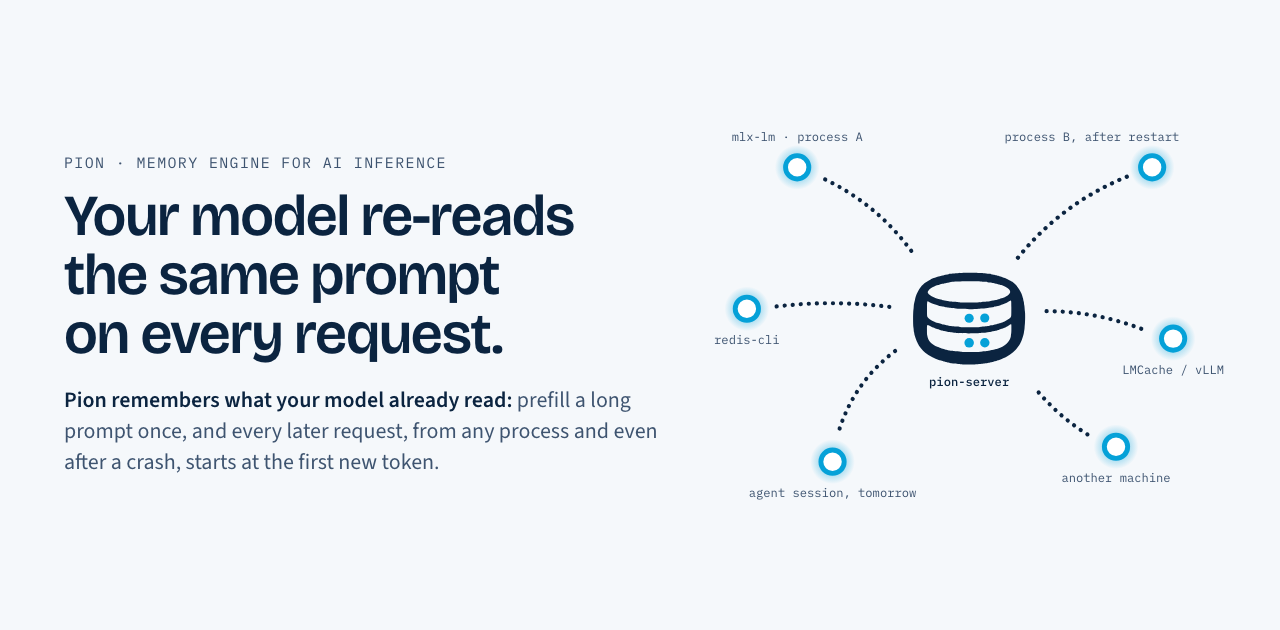
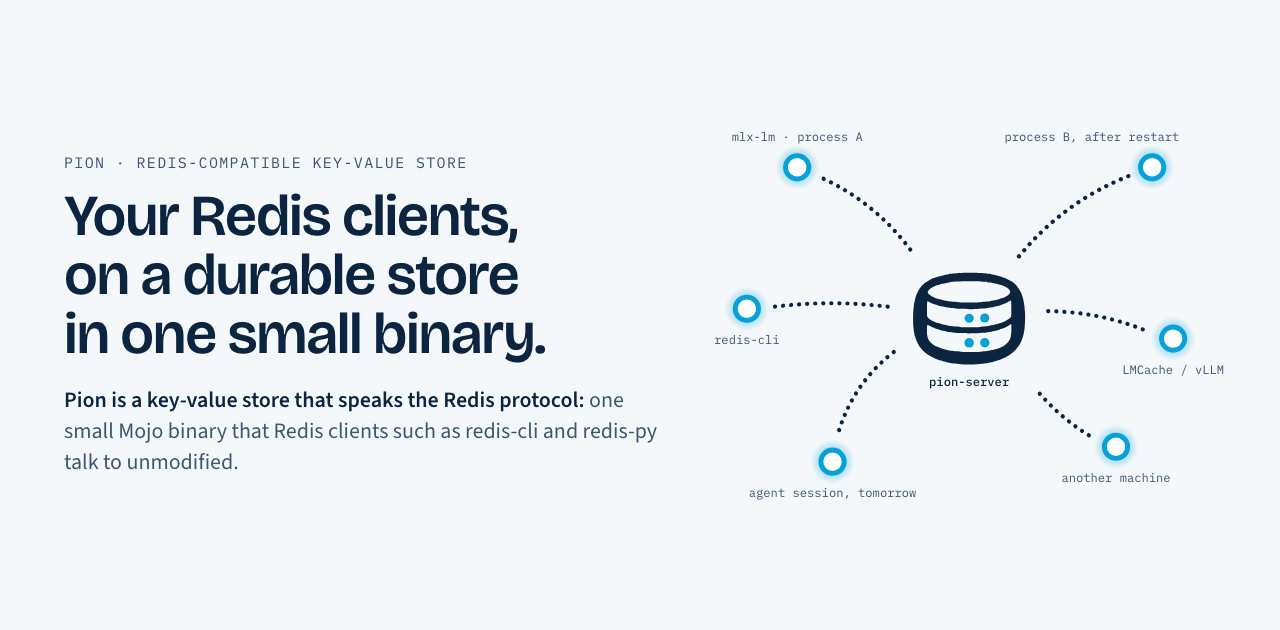
README: the KV store is the headline
Pion is now introduced as a Redis-compatible key-value store, with the
prompt cache and vector search as what the same server also does:

- README and docs index: title, the pitch region, and "What works"
  reordered so the KV store comes first (its section text is unchanged).
- The category line in the glance table, mkdocs' site description, the
  landing page's title, og:title, brand line and hero H1, the OG image's
  eyebrow, and the website README's naming rule.
- website/assets/og.png regenerated from the new H1 and pitch.

No number is added or changed.

diff --git a/website/landing/index.template.html b/website/landing/index.template.html
@@ -3,12 +3,12 @@
 <head>
 <meta charset="utf-8">
 <meta name="viewport" content="width=device-width,initial-scale=1,viewport-fit=cover">
-<title>Pion — memory engine for AI inference</title>
+<title>Pion — redis-compatible key-value store in Mojo</title>
 <meta name="description" content="Pion keeps your model's prefill: the prompt's K/V tensors live in the engine, so the next request on the same prefix starts at the first new token — from another process, another model object, or after a restart. Redis-wire-compatible, one binary, written in Mojo.">
 <link rel="canonical" href="https://pion.pavelhorak.com/">
 <link rel="icon" href="assets/pion-icon.svg" type="image/svg+xml">
 <meta property="og:type" content="website">
-<meta property="og:title" content="Pion — memory engine for AI inference">
+<meta property="og:title" content="Pion — redis-compatible key-value store in Mojo">
 <meta property="og:description" content="Your model re-reads the same prompt on every request. Pion keeps the prefill — across processes, across restarts, on the Redis wire.">
 <meta property="og:url" content="https://pion.pavelhorak.com/">
 <meta property="og:image" content="https://pion.pavelhorak.com/assets/og.png">
@@ -175,7 +175,7 @@ th{font-family:var(--font-mono);font-weight:500;font-size:12.5px;letter-spacing:
   <header class="topnav">
     <a class="brand" href="/" aria-label="Pion home">
       <svg viewBox="143.2 105.4 521.2 521.2" aria-hidden="true"><g fill="none" stroke="currentColor" stroke-width="13" stroke-linecap="round" stroke-dasharray=".1 23"><path d="M345.6 310.4Q307.7 254.5 247.4 224"/><path d="M484.3 312.2Q526.2 253.2 591.9 223.3"/><path d="M315.6 366.1Q257.9 355.9 199.5 361"/><path d="M511.7 380Q560.9 375.2 608.3 389.6"/><path d="M352 435.3Q306.3 459.3 284.5 506"/><path d="M482.4 430.2Q511.5 467.9 552.7 491.6"/></g><g style="fill:var(--surface,#fff);stroke:var(--accent-bright,#05A1D8)" stroke-width="8.5"><circle cx="224.2" cy="203.6" r="17"/><circle cx="615.7" cy="203.6" r="17"/><circle cx="168.7" cy="359.6" r="17"/><circle cx="639" cy="392.6" r="17"/><circle cx="263.2" cy="528.4" r="17"/><circle cx="576" cy="511.9" r="17"/></g><use href="#pion-drum" transform="translate(331.5 302.7) scale(0.958)"/></svg>
-      <span class="word">Pion</span><span class="cat">memory engine for AI inference</span>
+      <span class="word">Pion</span><span class="cat">Redis-compatible key-value store</span>
     </a>
     <nav aria-label="Primary">
       <a href="/docs/">Docs</a><a href="/docs/guides/examples/">Examples</a><a href="#numbers">Numbers</a><a href="/docs/project/changelog/">Changelog</a><a href="https://github.com/pavelhorak/pion">GitHub</a>
@@ -186,7 +186,7 @@ th{font-family:var(--font-mono);font-weight:500;font-size:12.5px;letter-spacing:
   <section class="hero">
     <div>
       <p class="eyebrow">{{version}} · macOS Apple Silicon + Linux</p>
-      <h1>Your model re-reads the same prompt on every request.</h1>
+      <h1>Your Redis clients, on a durable store in one small binary.</h1>
       <p class="lede">{{hero_lede}}</p>
       <div class="cta">
         <a class="btn btn-primary" href="#install">Get started</a>

diff --git a/website/landing/build_og.py b/website/landing/build_og.py
@@ -52,7 +52,7 @@ html,body{{width:1280px;height:630px;margin:0;overflow:hidden}}
 .og p strong{{color:var(--ink)}}
 .og .fabric{{max-width:none;width:100%}}
 </style></head><body>{defs}
-<div class="og"><div><p class="eyebrow">Pion · memory engine for AI inference</p><h1>{h1}</h1><p>{first}</p></div>
+<div class="og"><div><p class="eyebrow">Pion · Redis-compatible key-value store</p><h1>{h1}</h1><p>{first}</p></div>
 {hero}</div></body></html>"""
     tmp = Path(tempfile.mkdtemp(prefix="pion_og_"))
     src = tmp / "og.html"

diff --git a/website/landing/build_landing.py b/website/landing/build_landing.py
@@ -78,8 +78,7 @@ def build(out_dir: Path) -> Path:
 
     # ── hero ──
     pitch = S.region(readme, "pitch").replace("\n", " ").strip()
-    # The hero H1 is the problem ("Your model re-reads the same prompt on every
-    # request."); the README pitch region is the answer under it.
+    # The hero H1 is the claim; the README pitch region says what is behind it.
     hero_lede = inline(pitch)
 
     # ── install tabs ──

diff --git a/README.md b/README.md
@@ -4,7 +4,7 @@
   <img alt="Pion Logo" src="light-logo.png" width="400">
 </picture>
 
-# Pion — The Memory Engine for AI Inference
+# Pion — A Redis-compatible key-value store in Mojo
 
 [![Mojo](https://img.shields.io/badge/Mojo-1.2-orange.svg)](https://docs.modular.com/mojo/)
 [![License](https://img.shields.io/badge/License-Apache%202.0-blue.svg)](LICENSE)
@@ -12,11 +12,11 @@
 📚 **Documentation:** [`doc/index.md`](doc/index.md) — full reference.
 
 <!-- --8<-- [start:pitch] -->
-**Pion remembers what your model already read:** prefill a long prompt once,
-and every later request, from any process and even after a crash, starts at
-the first new token. It is a memory engine for AI inference — one small Mojo
-binary that holds the prompt's K/V cache, and the rest of a model's working
-memory, and serves it over the Redis wire.
+**Pion is a key-value store that speaks the Redis protocol:** one small Mojo
+binary that Redis clients such as redis-cli and redis-py talk to unmodified.
+Every write goes to a write-ahead log before it is acknowledged, `--maxmemory`
+with Redis's eviction policies makes it a cache, and the same server does vector
+search over the RediSearch `FT.*` commands and keeps a prompt cache for mlx-lm.
 <!-- --8<-- [end:pitch] -->
 
 <!-- --8<-- [start:open-core] -->
@@ -37,7 +37,87 @@ Three things, each covered by Pion's gate tier, the tests run before every merge
 other feature in this repository is [experimental](#experimental): it is
 there, it may be tested at the wire level, and it is not something to rely on.
 
-### 1. A prompt cache for mlx-lm, and one endpoint for coding agents
+### 1. A Redis-compatible KV store with a write-ahead log
+
+355 command names (the generated command table), every one exercised by a
+dispatch sweep in five argument shapes, and a differential suite that compares
+replies against a real `redis-server`: strings, hashes, lists, sets, sorted
+sets, bitmaps, HyperLogLog, geo, streams and consumer groups, pub/sub,
+`MULTI`/`EXEC`/`WATCH`, TTLs, Lua. Every write goes to a write-ahead log
+before it is acknowledged; an acked write is still there after `SIGKILL`.
+`--maxmemory` with `--maxmemory-policy` makes it a cache, evicting by LRU, LFU, TTL
+or at random.
+`redis-cli` and redis-py, which the test suite uses, talk to it unmodified over
+RESP2 or RESP3. Reference:
+[`doc/command_matrix.md`](doc/command_matrix.md),
+[`doc/persistence.md`](doc/persistence.md).
+
+Against Redis 8.10.2, Pion wins some configurations and loses others. Every
+number below comes from one Linux server, an AMD EPYC 8124P (16 cores). Both
+engines were measured the same day with the same client settings: Redis 8.10.2
+built from source, Pion built as the release builds it. The one-keyspace numbers
+are from 2026-10-12 (Pion 0.9.9). The all-cores and vector numbers are from
+2026-10-06 (Pion 0.9.5). Raw output, scripts and method:
+[`2026-10-12`](benchmarks/results/2026-10-12-linux-epyc-8124p/README.md),
+[`2026-10-06`](benchmarks/results/2026-10-06-linux-epyc-8124p/README.md).
+
+**KV throughput** (memtier, 256-byte values, 1:10 SET:GET over 1M keys, 30 s a
+run, median of 3, ops/sec):
+
+| One keyspace, ops/sec | Redis, 1 thread | Redis, `io-threads 8` | Pion, 1 thread | **Pion, `--io-threads 8`** |
+|---|---:|---:|---:|---:|
+| P=1 | 110,044 | 386,278 | 114,909 | **515,267** |
+| P=10 | 640,985 | 1,661,596 | 895,149 | **2,972,713** |
+| P=50 | 979,984 | 1,368,935 | 1,703,363 | **3,909,190** |
+
+| All 16 cores, 16 independent keyspaces, ops/sec | 16 Redis processes | **Pion `-w 16`** |
+|---|---:|---:|
+| P=10 | **7,178,453** | 6,097,719 |
+| P=50 | **11,128,400** | 9,848,658 |
+
+**One keyspace, with I/O threads:** Pion's `--io-threads 8` leads Redis's
+`io-threads 8` at every pipeline depth.
+- **Ratios:** 1.33× at P=1, 1.79× at P=10 and 2.86× at P=50.
+- **Like for like:** both count threads the same way, one thread that runs
+  commands plus seven I/O threads, and the client runs on the same machine.
+- **P=50:** `--io-threads 4` is faster still, at 4,431,024. One thread executes
+  every command, and at that depth it is the limit.
+
+**Without I/O threads:** Pion's single thread trails Redis's I/O threads at P=1
+and P=10, and leads single-threaded Redis at every depth.
+
+**With durability on (P=10):** Redis's AOF (`everysec`) against Pion's WAL, both
+at 8 I/O threads. Pion leads, 2,724,529 to 1,297,102 (2.1×).
+
+**Where I/O threads pay:** on a server with cores to spare. On a Mac with the
+client on the same machine, they lower throughput, for Redis too
+([2026-10-10](benchmarks/results/2026-10-10-mac-m4-io-threads/README.md)).
+
+**Across all cores:** sixteen Redis processes beat Pion's sixteen workers by
+13–18%, both sides as sixteen independent keyspaces.
+
+**Runs that are not a comparison:** the same day's 32-keyspace runs used every
+hardware thread on both sides, with the client on the same machine. In them,
+Pion's connections landed on about half of its 32 workers, while each Redis
+process got exactly its own client's connections. The GET hit rates show it, and
+the half-idle workers left the shared CPUs to the client. Those runs measure that
+asymmetry, not either server. Their raw output and the analysis are in the
+[2026-10-06 results](benchmarks/results/2026-10-06-linux-epyc-8124p/README.md).
+
+**A withdrawn headline:** this README used to carry 14.0M ops/sec, 10.2× Redis.
+It had no surviving raw log, it set Pion's 32 independent keyspaces against a
+single Redis instance, and its configuration has the same asymmetry. It is
+withdrawn; the comparisons above are the like-for-like ones.
+
+> **Worker-count caveat.** Every number above `w > 1` is measured with
+> `--independent-workers`, and that flag changes the semantics: workers are
+> shared-nothing, so **`-w N` runs N independent keyspaces**, and a connection is
+> bound to whichever worker won `accept()`. A write acked on one connection is
+> not readable from another. Pion therefore defaults to `-w 1` (one coherent
+> keyspace, what a Redis client expects) and refuses to start with `-w N > 1`
+> unless you pass the flag. See [Scaling past one worker](#scaling-past-one-worker).
+
+### 2. A prompt cache for mlx-lm, and one endpoint for coding agents
 
 On Apple Silicon it is four lines around `mlx_lm`:
 
@@ -159,86 +239,6 @@ Design, wire protocol, the quantized tiers and the Stage 2 lanes:
 [`doc/shared_kv_cache.md`](doc/shared_kv_cache.md). Hybrid models (SSM and
 sliding-window layers) are stored by `PionPromptCache` and its `SSM.PREFIX.*`
 companion; `pion-vllm-mlx serve` does not store them yet.
-
-### 2. A Redis-compatible KV store with a write-ahead log
-
-355 command names (the generated command table), every one exercised by a
-dispatch sweep in five argument shapes, and a differential suite that compares
-replies against a real `redis-server`: strings, hashes, lists, sets, sorted
-sets, bitmaps, HyperLogLog, geo, streams and consumer groups, pub/sub,
-`MULTI`/`EXEC`/`WATCH`, TTLs, Lua. Every write goes to a write-ahead log
-before it is acknowledged; an acked write is still there after `SIGKILL`.
-`--maxmemory` with `--maxmemory-policy` makes it a cache, evicting by LRU, LFU, TTL
-or at random.
-`redis-cli` and redis-py, which the test suite uses, talk to it unmodified over
-RESP2 or RESP3. Reference:
-[`doc/command_matrix.md`](doc/command_matrix.md),
-[`doc/persistence.md`](doc/persistence.md).
-
-Against Redis 8.10.2, Pion wins some configurations and loses others. Every
-number below comes from one Linux server, an AMD EPYC 8124P (16 cores). Both
-engines were measured the same day with the same client settings: Redis 8.10.2
-built from source, Pion built as the release builds it. The one-keyspace numbers
-are from 2026-10-12 (Pion 0.9.9). The all-cores and vector numbers are from
-2026-10-06 (Pion 0.9.5). Raw output, scripts and method:
-[`2026-10-12`](benchmarks/results/2026-10-12-linux-epyc-8124p/README.md),
-[`2026-10-06`](benchmarks/results/2026-10-06-linux-epyc-8124p/README.md).
-
-**KV throughput** (memtier, 256-byte values, 1:10 SET:GET over 1M keys, 30 s a
-run, median of 3, ops/sec):
-
-| One keyspace, ops/sec | Redis, 1 thread | Redis, `io-threads 8` | Pion, 1 thread | **Pion, `--io-threads 8`** |
-|---|---:|---:|---:|---:|
-| P=1 | 110,044 | 386,278 | 114,909 | **515,267** |
-| P=10 | 640,985 | 1,661,596 | 895,149 | **2,972,713** |
-| P=50 | 979,984 | 1,368,935 | 1,703,363 | **3,909,190** |
-
-| All 16 cores, 16 independent keyspaces, ops/sec | 16 Redis processes | **Pion `-w 16`** |
-|---|---:|---:|
-| P=10 | **7,178,453** | 6,097,719 |
-| P=50 | **11,128,400** | 9,848,658 |
-
-**One keyspace, with I/O threads:** Pion's `--io-threads 8` leads Redis's
-`io-threads 8` at every pipeline depth.
-- **Ratios:** 1.33× at P=1, 1.79× at P=10 and 2.86× at P=50.
-- **Like for like:** both count threads the same way, one thread that runs
-  commands plus seven I/O threads, and the client runs on the same machine.
-- **P=50:** `--io-threads 4` is faster still, at 4,431,024. One thread executes
-  every command, and at that depth it is the limit.
-
-**Without I/O threads:** Pion's single thread trails Redis's I/O threads at P=1
-and P=10, and leads single-threaded Redis at every depth.
-
-**With durability on (P=10):** Redis's AOF (`everysec`) against Pion's WAL, both
-at 8 I/O threads. Pion leads, 2,724,529 to 1,297,102 (2.1×).
-
-**Where I/O threads pay:** on a server with cores to spare. On a Mac with the
-client on the same machine, they lower throughput, for Redis too
-([2026-10-10](benchmarks/results/2026-10-10-mac-m4-io-threads/README.md)).
-
-**Across all cores:** sixteen Redis processes beat Pion's sixteen workers by
-13–18%, both sides as sixteen independent keyspaces.
-
-**Runs that are not a comparison:** the same day's 32-keyspace runs used every
-hardware thread on both sides, with the client on the same machine. In them,
-Pion's connections landed on about half of its 32 workers, while each Redis
-process got exactly its own client's connections. The GET hit rates show it, and
-the half-idle workers left the shared CPUs to the client. Those runs measure that
-asymmetry, not either server. Their raw output and the analysis are in the
-[2026-10-06 results](benchmarks/results/2026-10-06-linux-epyc-8124p/README.md).
-
-**A withdrawn headline:** this README used to carry 14.0M ops/sec, 10.2× Redis.
-It had no surviving raw log, it set Pion's 32 independent keyspaces against a
-single Redis instance, and its configuration has the same asymmetry. It is
-withdrawn; the comparisons above are the like-for-like ones.
-
-> **Worker-count caveat.** Every number above `w > 1` is measured with
-> `--independent-workers`, and that flag changes the semantics: workers are
-> shared-nothing, so **`-w N` runs N independent keyspaces**, and a connection is
-> bound to whichever worker won `accept()`. A write acked on one connection is
-> not readable from another. Pion therefore defaults to `-w 1` (one coherent
-> keyspace, what a Redis client expects) and refuses to start with `-w N > 1`
-> unless you pass the flag. See [Scaling past one worker](#scaling-past-one-worker).
 
 ### 3. Vector search and the semantic cache
 
@@ -636,7 +636,7 @@ removed, and each carries an **Experimental** banner on its own page.
 
 | | Pion |
 |---|---|
-| Category | **Memory engine for AI inference** |
+| Category | **Redis-compatible key-value store** |
 | Headline | **Shared KV Cache** — at a 2K prefix on Llama-3.2-1B-4bit, first token in 69.0 ms from a separate process over the wire and 46.2 ms in the same process, against 1,193 ms cold and 37.0 ms from mlx-lm's own prompt-cache file; BLEU 1.000 cross-instance |
 | Language | Mojo (SIMD-native, no GC) |
 | Protocol | RESP2 / RESP3 (Redis wire-compatible) |

diff --git a/doc/index.md b/doc/index.md
@@ -1,12 +1,12 @@
-# Pion — the memory engine for AI inference
+# Pion — a Redis-compatible key-value store in Mojo
 
-**Pion remembers what your model already read:** prefill a long prompt once,
-and every later request, from any process and even after a crash, starts at
-the first new token. It is a memory engine for AI inference — one small Mojo
-binary that holds the prompt's K/V cache, and the rest of a model's working
-memory, and serves it over the Redis wire.
+**Pion is a key-value store that speaks the Redis protocol:** one small Mojo
+binary that Redis clients such as redis-cli and redis-py talk to unmodified.
+Every write goes to a write-ahead log before it is acknowledged, `--maxmemory`
+with Redis's eviction policies makes it a cache, and the same server does vector
+search over the RediSearch `FT.*` commands and keeps a prompt cache for mlx-lm.
 
-On Apple Silicon it is four lines around `mlx_lm`:
+The prompt cache, on Apple Silicon, is four lines around `mlx_lm`:
 
 ```python
 from pion_vllm_mlx import PionPromptCache
@@ -44,13 +44,13 @@ only pays off when a long prefix is really reused.
 
 Three things, each covered by Pion's gate tier, the tests run before every merge:
 
-1. **A prompt cache for mlx-lm, and one endpoint for coding agents.**
+1. **A Redis-compatible KV store with a write-ahead log.** [Command
+   matrix](command_matrix.md) for every Redis-compatible command and its known
+   divergences, [Persistence](persistence.md), [Data types](data_types.md).
+2. **A prompt cache for mlx-lm, and one endpoint for coding agents.**
    [Shared KV cache](shared_kv_cache.md) (namespaces, Stage 1 vs Stage 2, the
    wire protocol, what is measured) and [Coding agents](coding_agents.md)
    (`pion-vllm-mlx serve` behind Claude Code, Codex and OpenAI clients).
-2. **A Redis-compatible KV store with a write-ahead log.** [Command
-   matrix](command_matrix.md) for every Redis-compatible command and its known
-   divergences, [Persistence](persistence.md), [Data types](data_types.md).
 3. **Vector search and the semantic cache.** [Vector engine](vector_engine.md),
    [Embeddings](embeddings.md), and `AI.SEMANTIC_CACHE` in the
    [AI gateway](ai_gateway.md) page.

diff --git a/website/README.md b/website/README.md
@@ -76,7 +76,7 @@ website/
 
 - **No number on the site that does not divide out of a published row.** The
   landing takes its numbers from the README and the launch post; edit those.
-- **Name + category everywhere**: "Pion — memory engine for AI inference" in
+- **Name + category everywhere**: "Pion — redis-compatible key-value store in Mojo" in
   every title and OG tag.
 - **The honesty panel is a section, not fine print.** It is included verbatim
   from the launch post.
